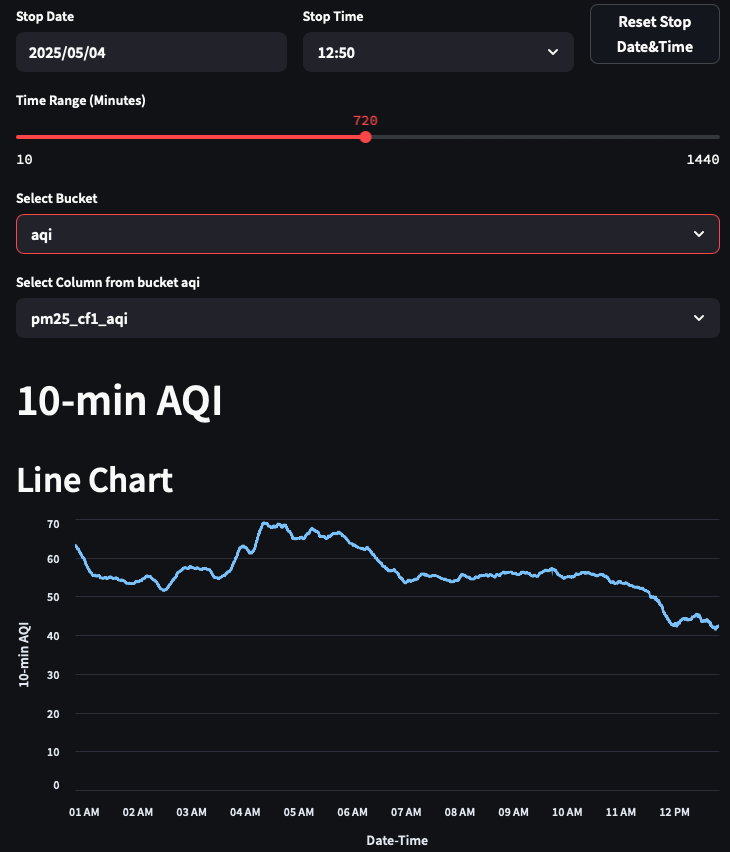
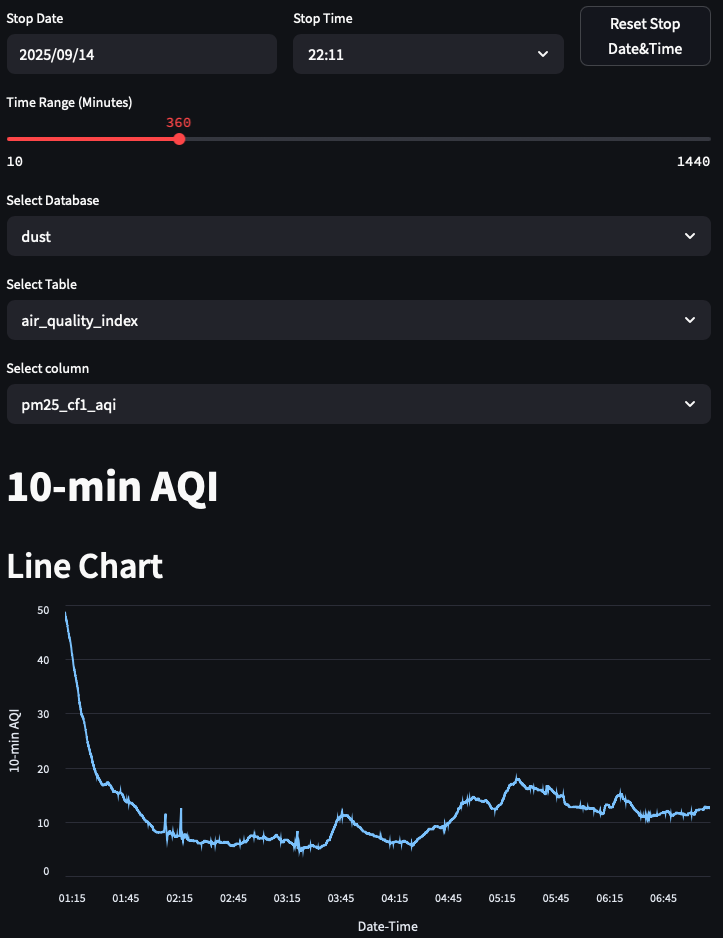
updated screenshot

diff --git a/aq_data_analysis.py b/aq_data_analysis.py
@@ -90,7 +90,7 @@ chart_df = get_data(database=database_name, table=table_name, minutes=time_range
 valid_columns = [col for col in chart_df.columns if not col.startswith("_") and col not in ["result", "table", "time"]]
 
 # Add a combo box for selecting the column name
-column_name = st.selectbox(f"Select column from table {table_name}", valid_columns)
+column_name = st.selectbox("Select column", valid_columns)
 
 #ensure there is data for the selected time range
 if column_name not in chart_df.columns:
